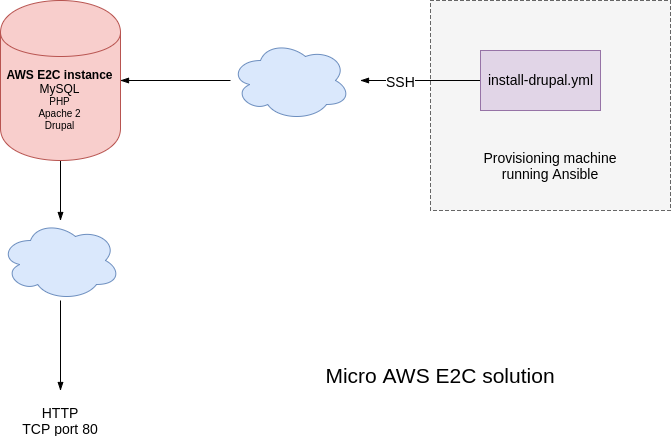
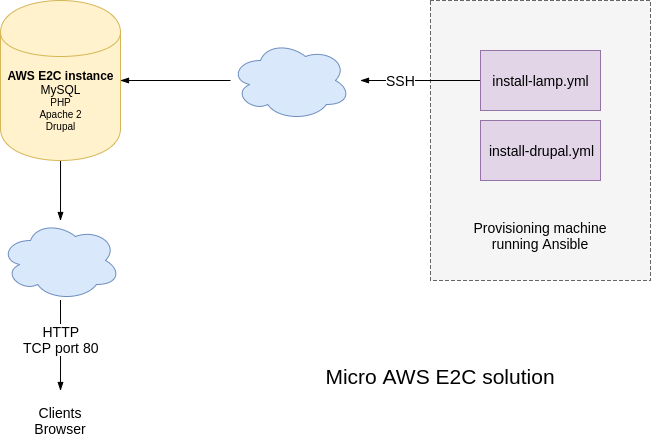
install drupal ansible playbook + drawings

diff --git a/README.md b/README.md
@@ -1,6 +1,6 @@
 # Implementing a Drupal hosting solution
 
-In this three part document I will outline how to create a hosting platform for Drupal, deploy Drupal using automation, and I will write a simple ruby application to monitor the status of a Drupal website.
+In this three part document I will outline how to create a hosting platform for Drupal, deploy Drupal using automation, and I will write a simple Ruby application to monitor the status of a Drupal website.
 
 ## Creating a LAMP stack machine 
 
@@ -49,13 +49,13 @@ IP address can be changed by editing the Vagrantfile [vagrant/Vagrantfile](vagra
 
 Ansible playbooks for deploying the LAMP stack are in [ansible/install-lamp.yml](ansible/install-lamp.yml)
 
-First edit Ansible inventory for your LAMP machine [ansible/inventory](ansible/inventory)
+First edit Ansible inventory file to reflect your machine address [ansible/inventory](ansible/inventory)
 
 ```
 ...
-
 [lamp]
-192.168.33.10 # <--- change this to your LAMP machine IP address
+192.168.33.10
+# ^^^ change this to your LAMP machine IP address
 ```
 
 To deploy the LAMP stack, run the provided ansible playbook:
@@ -73,7 +73,7 @@ TODO: separate playbook functionality into roles
 
 ### Single docker container implementation
 
-Custom Dockerfile for creating a docker image containing the whole LAMP stack.
+Custom [Dockerfile](singledocker/Dockerfile) for creating a docker image containing the whole LAMP stack + Drupal
 
 ![Single docker container drawing](images/singledocker.png)
 
@@ -96,7 +96,7 @@ Drupal can be provisioned in start.sh
 ```
 Tweak [singledocker/start.sh](singledocker/start.sh) for your deployment configuration 
 
-### docker-compose implementation for the whole stack
+### Docker compose implementation for the whole stack
 
 TODO: separate components into docker images and create a whole stack instance using "docker-compose up"
 
@@ -120,16 +120,20 @@ eu-central-1|xenial|16.04 LTS|amd64|instance-store|20171121.1|ami-2192104e|aki-1
 
 Once the AWS E2C instance has been created using AWS web console one can use the Ansible playbook from the first section to deploy the LAMP stack on the machine.
 
+```
+$ cd ansible
+$ ansible-playbook install-lamp.yml
+```
 Note: edit [ansible/inventory](ansible/inventory) to reflect your AWS instance IP address and credentials
 
-TODO: AWS account, register, screenshots  
+TODO: AWS screenshots  
 
 
 ## Install Drupal from an Ansible playbook
 
 *This is only applicable to the Vagrant, Bare metal, and AWS implementation as single docker image implementation and docker compose implementation already incorporates installation of Drupal into the docker image(s).*
 
-Here we used Jeff Geering's ansible roles for installing Drush, and Drush to deploy our Drupal site.
+Ansible script [ansible/install-drupal.yml](ansible/install-drupal) is installing [Drush](https://www.drupal.org/project/drush), and then uses Drush to deploy our Drupal site.
 
 To deploy Drupal, run the provided ansible playbook:
 ```
@@ -141,7 +145,7 @@ $ ansible-playbook install-drupal.yml
 
 ### Part 1: Testing a drupal site (service level ping)
 
-A RESTful ruby web application implemented using Sinatra to test a Drupal site for response code/content.  
+A Ruby REST web application implemented using Sinatra to test a Drupal site for response code/content.  
 
 A site is considered live when:
 - HTTP GET request returns status code 200 OK
@@ -152,7 +156,7 @@ A site is considered live when:
 Ruby script can start/stop the instance  
 TODO: this needs access to AWS, using AWS SDK - unable to test
 
-In the following ruby code is used to start an AWS instance:
+In the following Ruby code is used to start an AWS instance:
 ```
 require 'aws-sdk-ec2'  # v2: require 'aws-sdk'
 
@@ -210,6 +214,7 @@ TODO: return codes, for every case
 - [Drush to install Drupal](https://www.drupal.org/project/drush)
 - [ZopNow LAMP on docker](https://hub.docker.com/r/zopnow/lamp-stack/)
 - [Drupal in dockerhub](https://hub.docker.com/_/drupal/)
+- [DrupalVM: if you want to do the whole project in one shot](https://www.drupalvm.com/)
 
 
 
